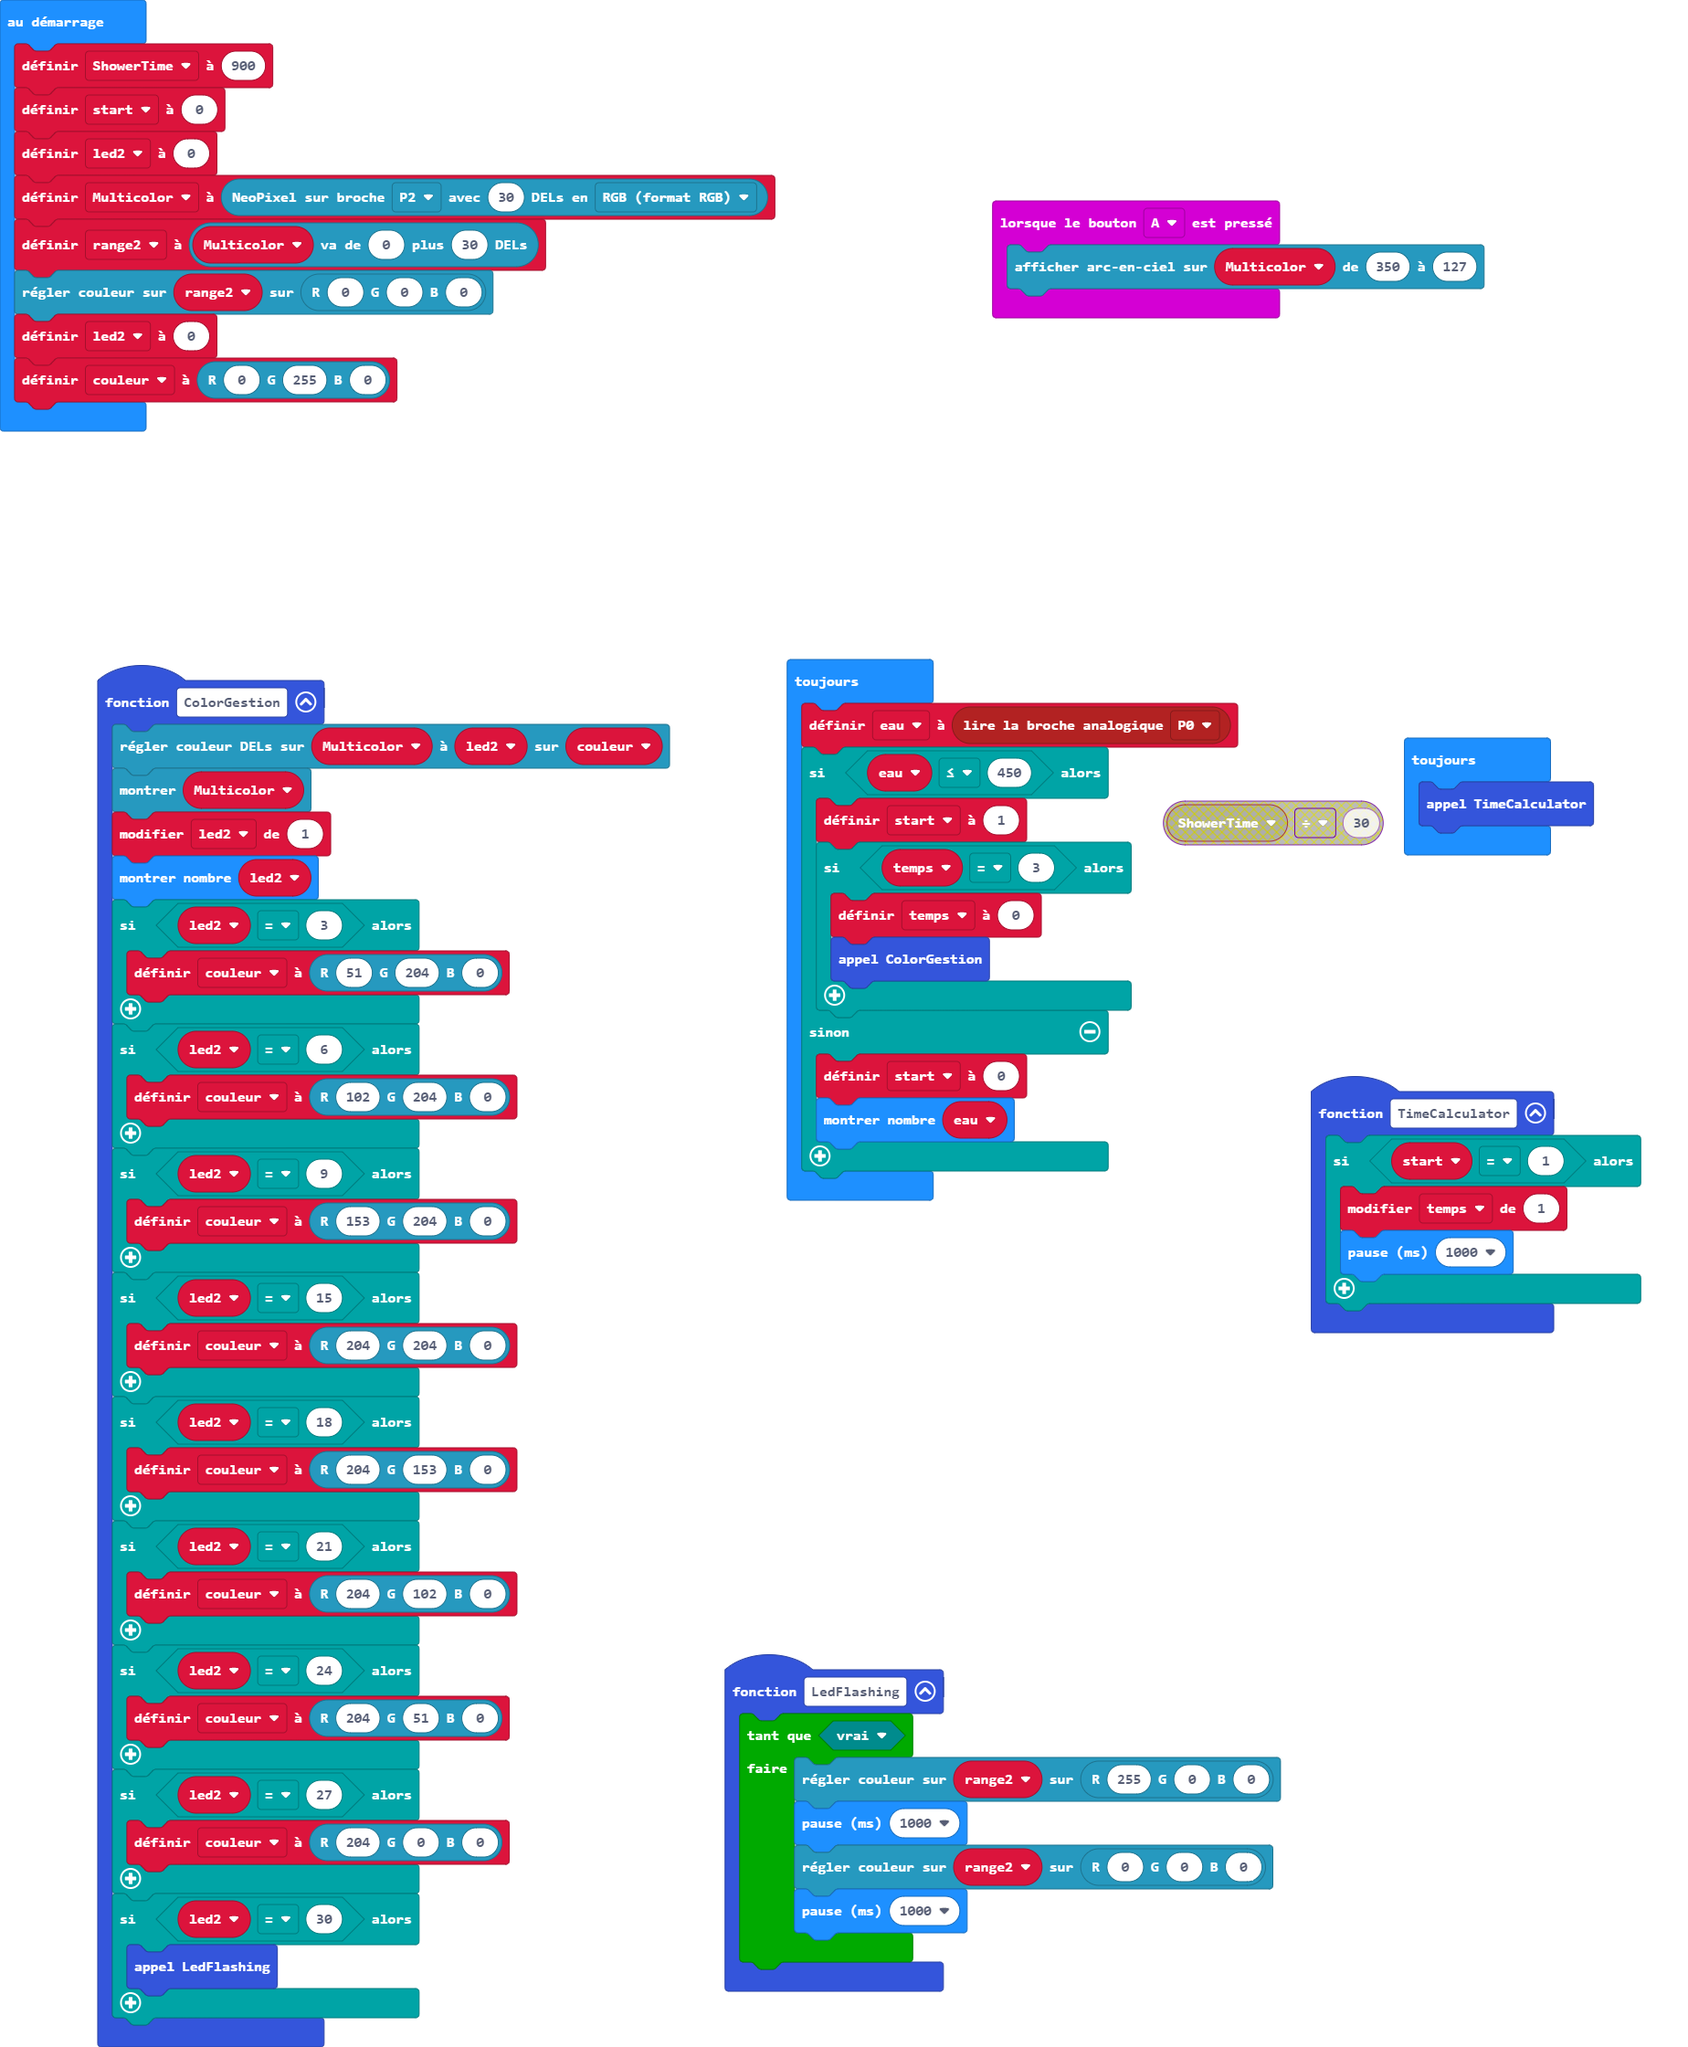
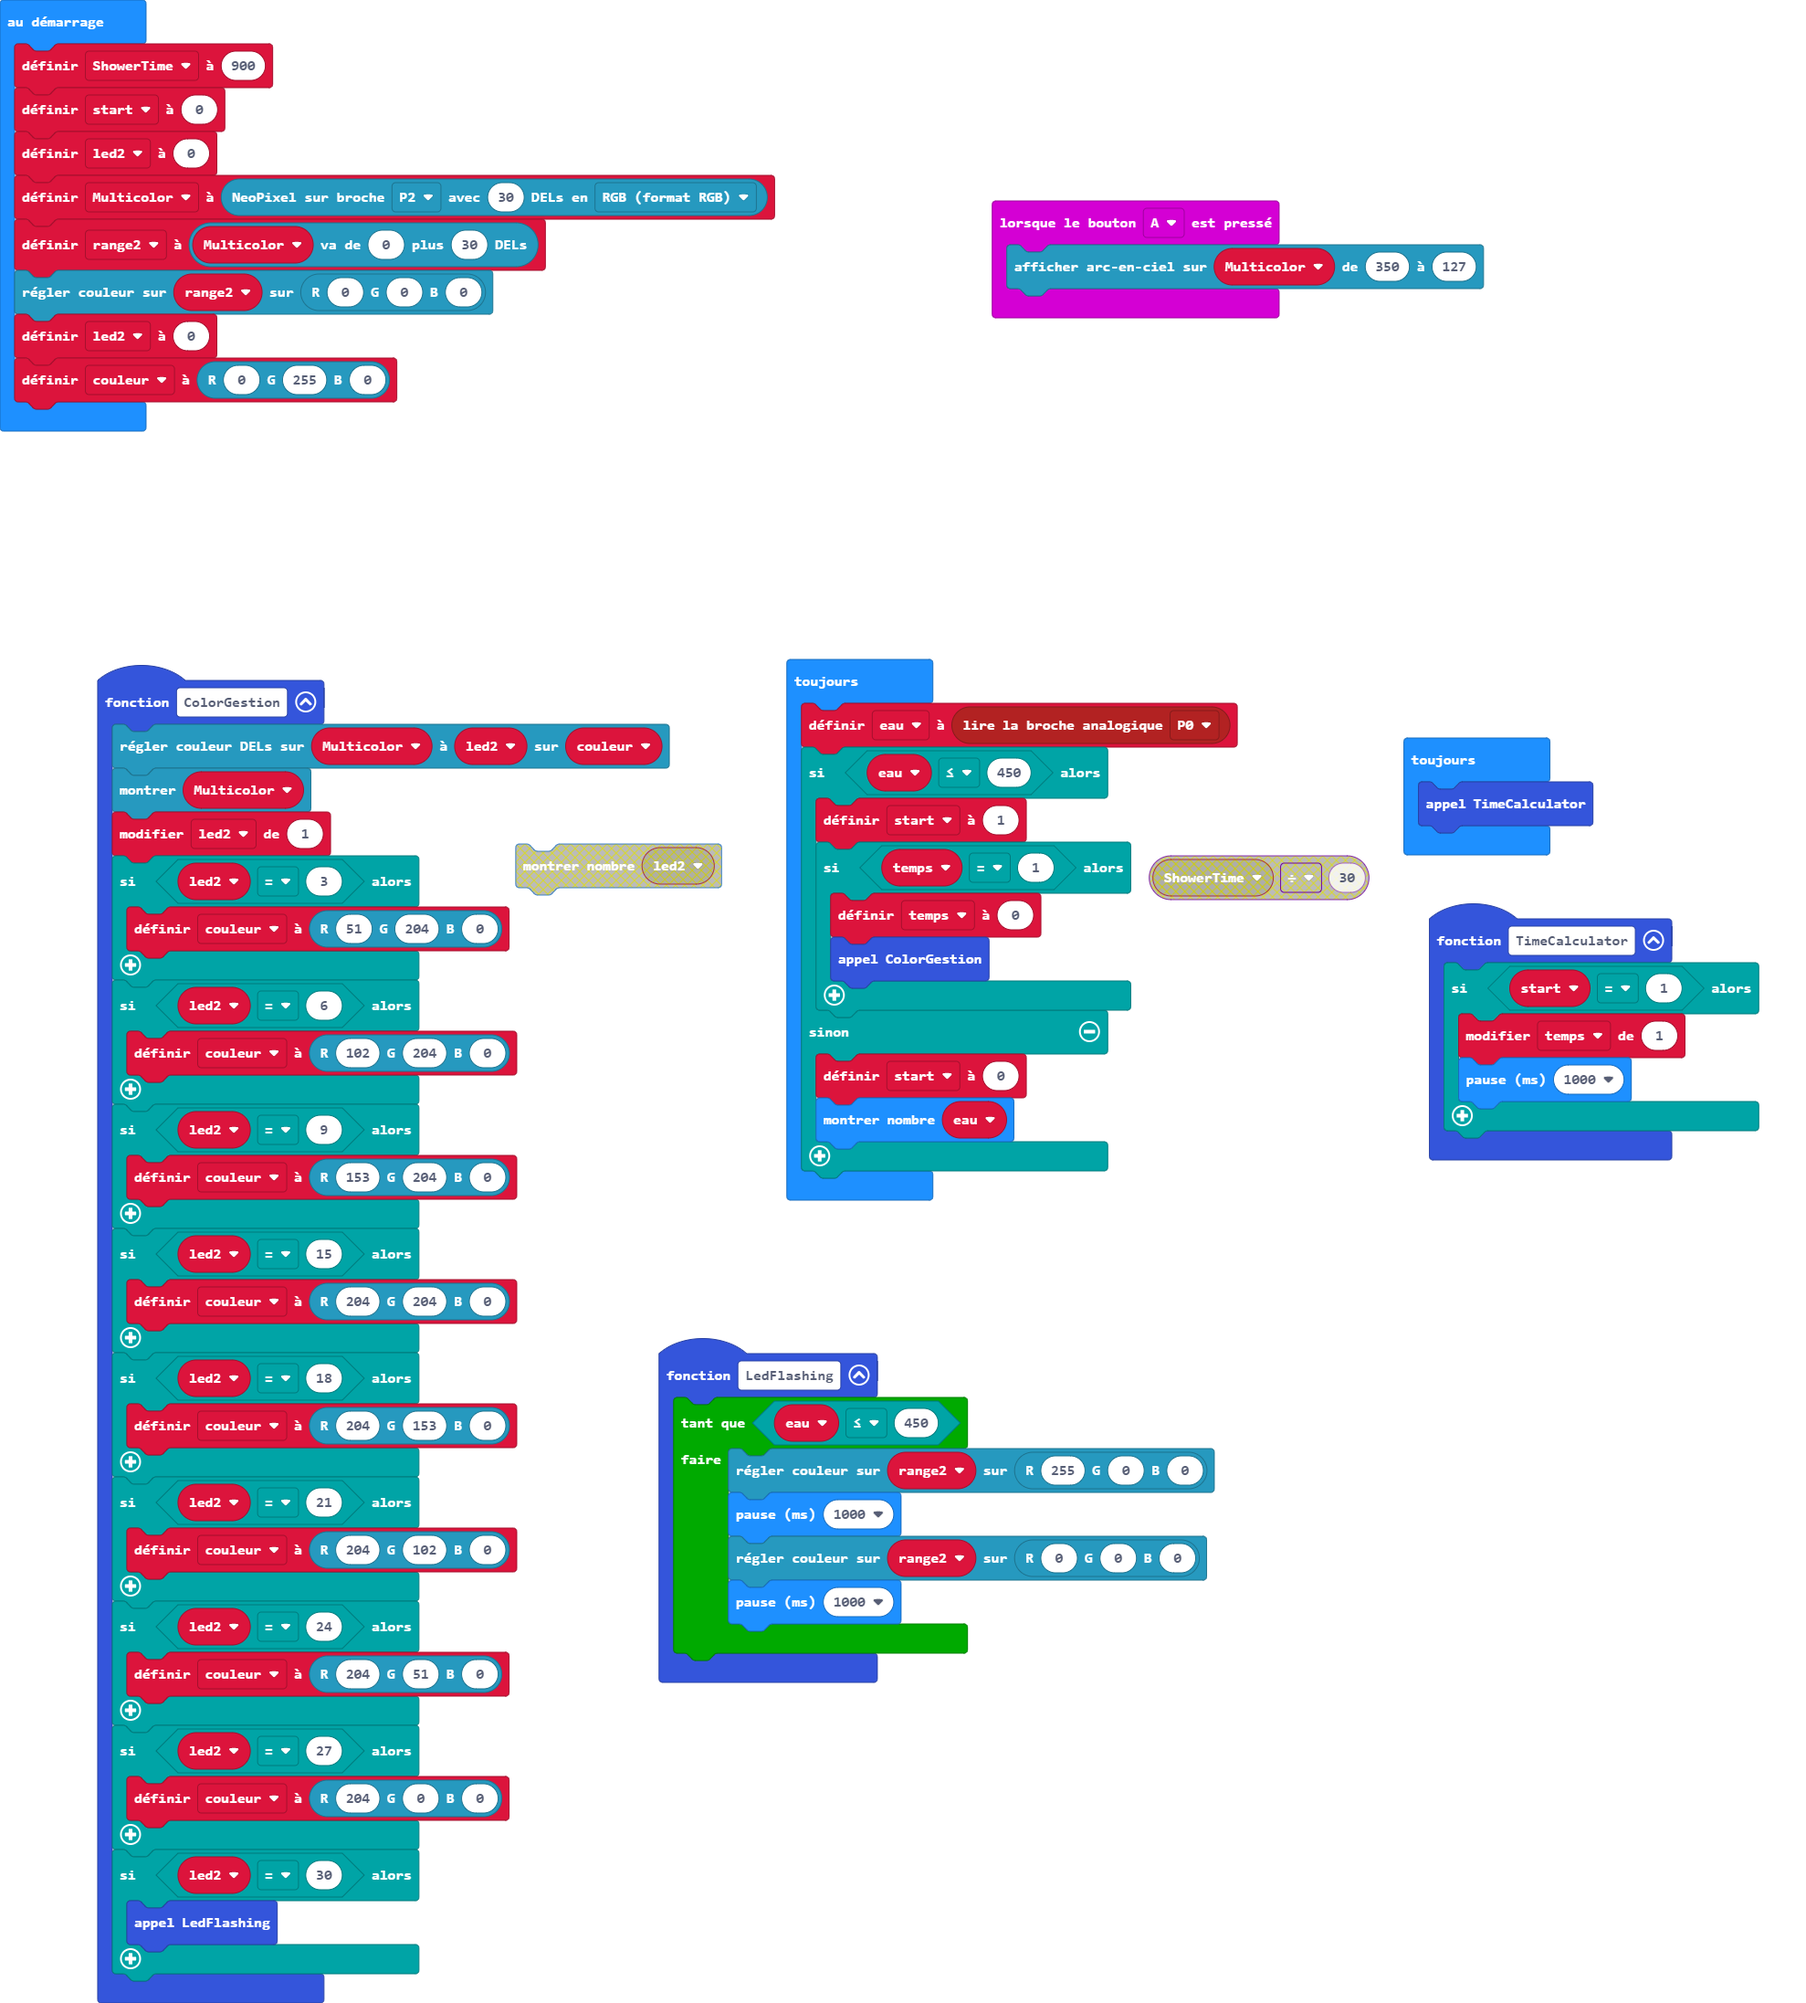
Mise à jour pxt.json, main.blocks, main.ts

diff --git a/main.ts b/main.ts
@@ -8,7 +8,7 @@ function TimeCalculator () {
     }
 }
 function LedFlashing () {
-    while (true) {
+    while (eau <= 450) {
         range2.showColor(neopixel.rgb(255, 0, 0))
         basic.pause(1000)
         range2.showColor(neopixel.rgb(0, 0, 0))
@@ -19,7 +19,6 @@ function ColorGestion () {
     Multicolor.setPixelColor(led2, couleur)
     Multicolor.show()
     led2 += 1
-    basic.showNumber(led2)
     if (led2 == 3) {
         couleur = neopixel.rgb(51, 204, 0)
     }
@@ -67,7 +66,7 @@ basic.forever(function () {
     eau = pins.analogReadPin(AnalogPin.P0)
     if (eau <= 450) {
         start = 1
-        if (temps == 3) {
+        if (temps == 1) {
             temps = 0
             ColorGestion()
         }
